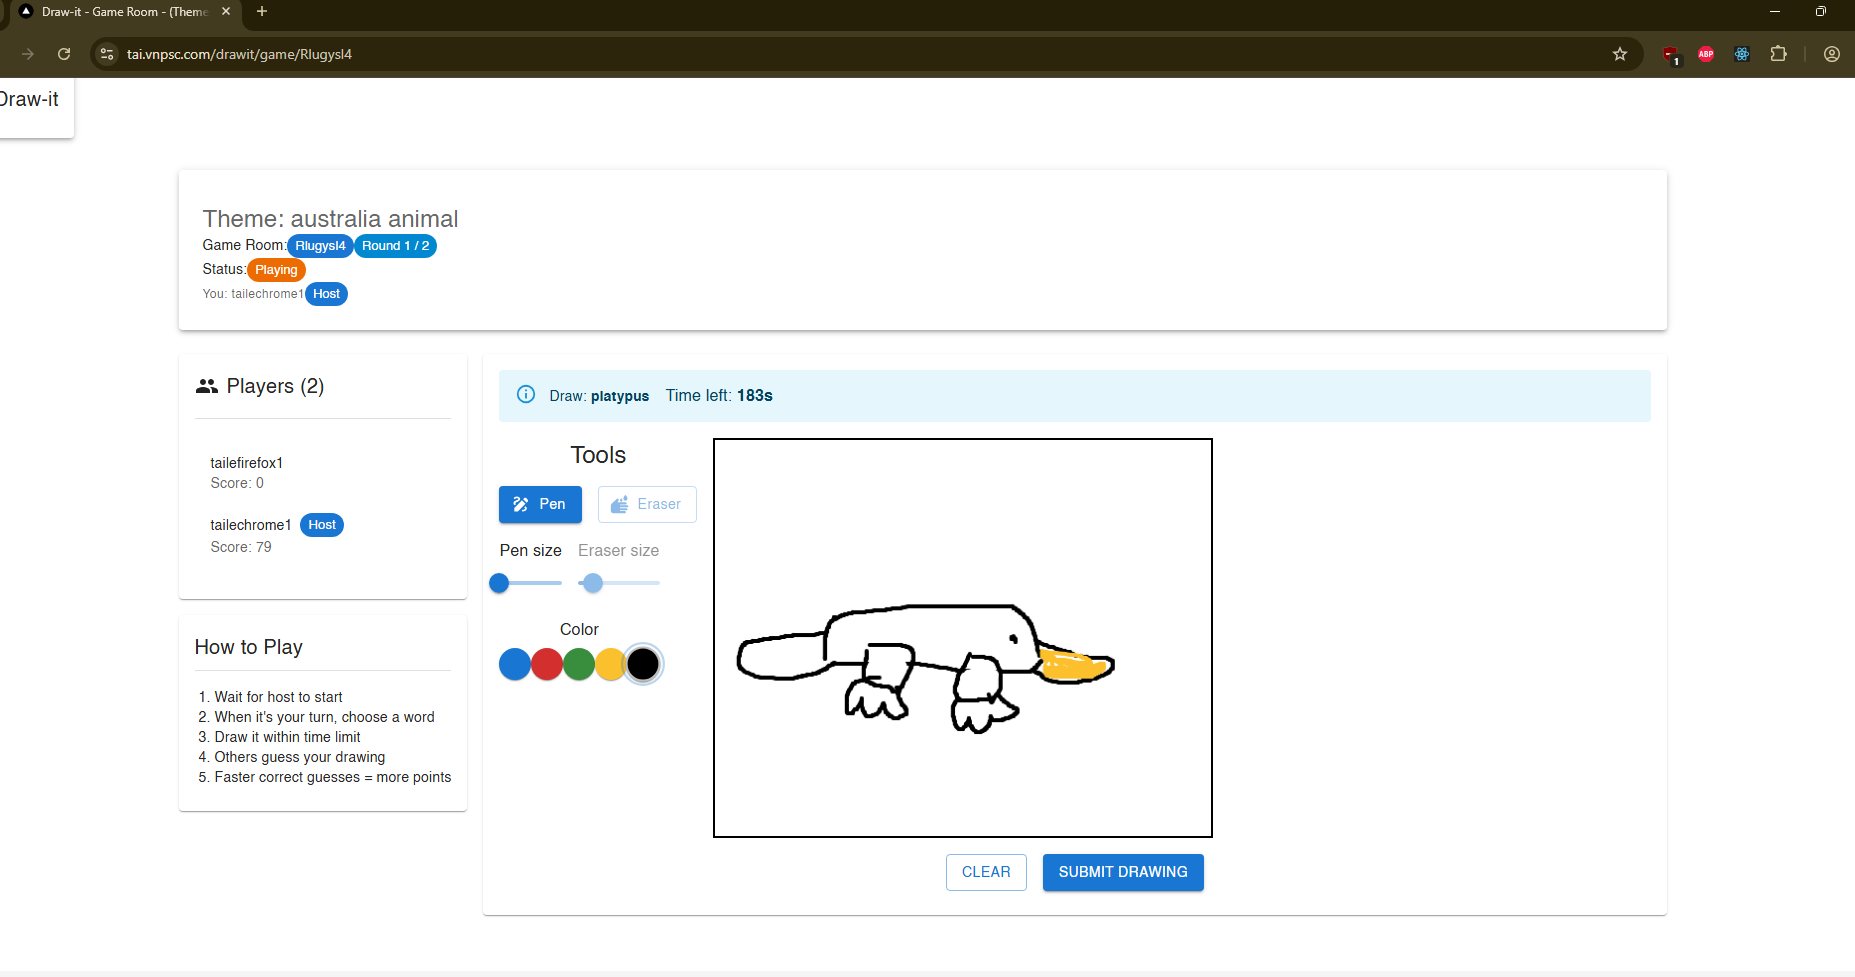
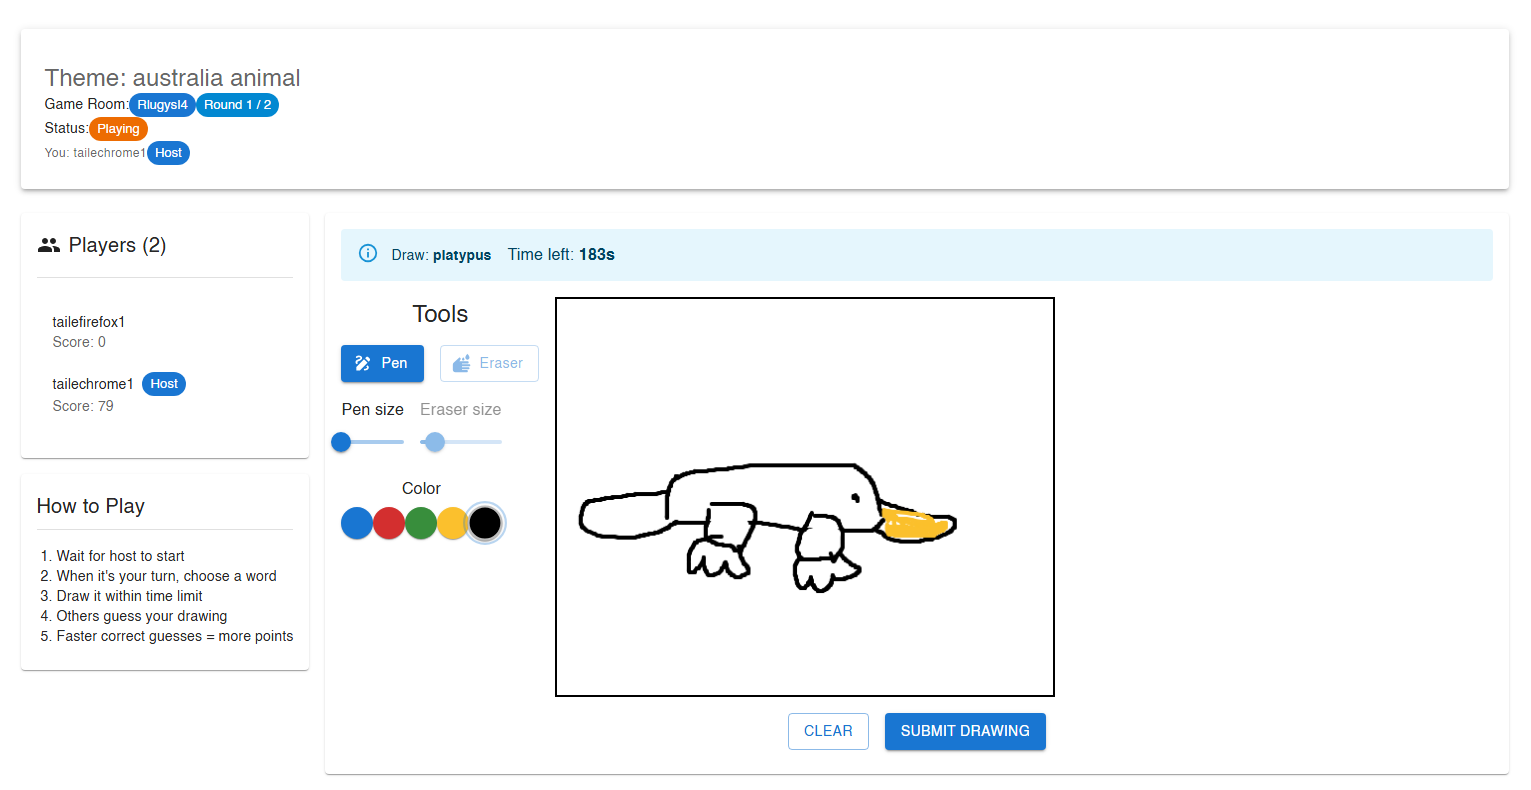
feat: update readme, add features

diff --git a/README.md b/README.md
@@ -8,15 +8,26 @@ A drawing game where a player draw some masterpices for another guessing
 View online [Link](https://tai.vnpsc.com/drawit).
 
 Demo:
+Screen: Pick a word
 ![Image0](assets/drawing0.png)
-
+Screen: Drawing a masterpiece
 ![Image1](assets/drawing1.png)
+Screen: Spectate a game
+![Image3](assets/drawing3.png)
 
 ## Table of Contents
 
+- [Features](#features)
 - [Required](#required)
 - [Screens List](#screens-list)
 - [APIs List](#apis-list)
+
+## Features
+
+- Do not need account.
+- Play anytime.
+- Use an AI agent to randomize the words.
+- Guests can spectate the game right after it is created.
 
 ## Required
 
